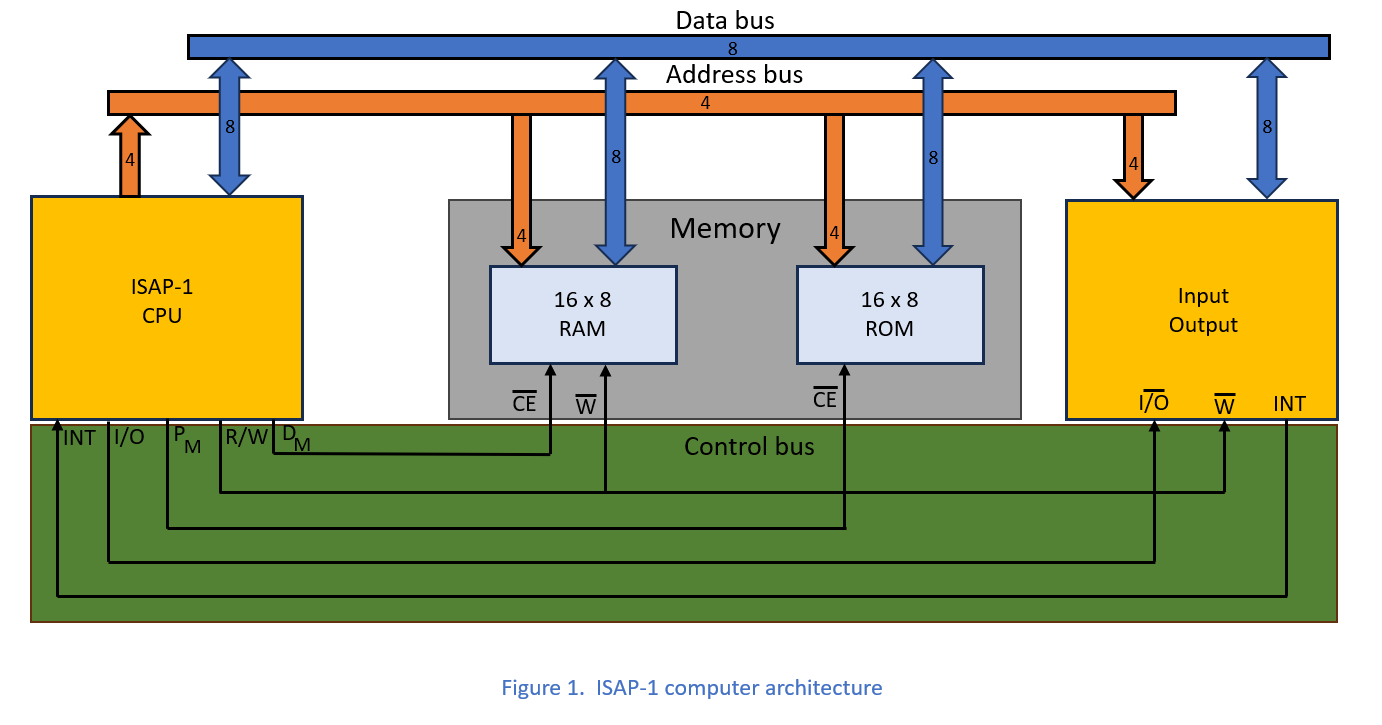
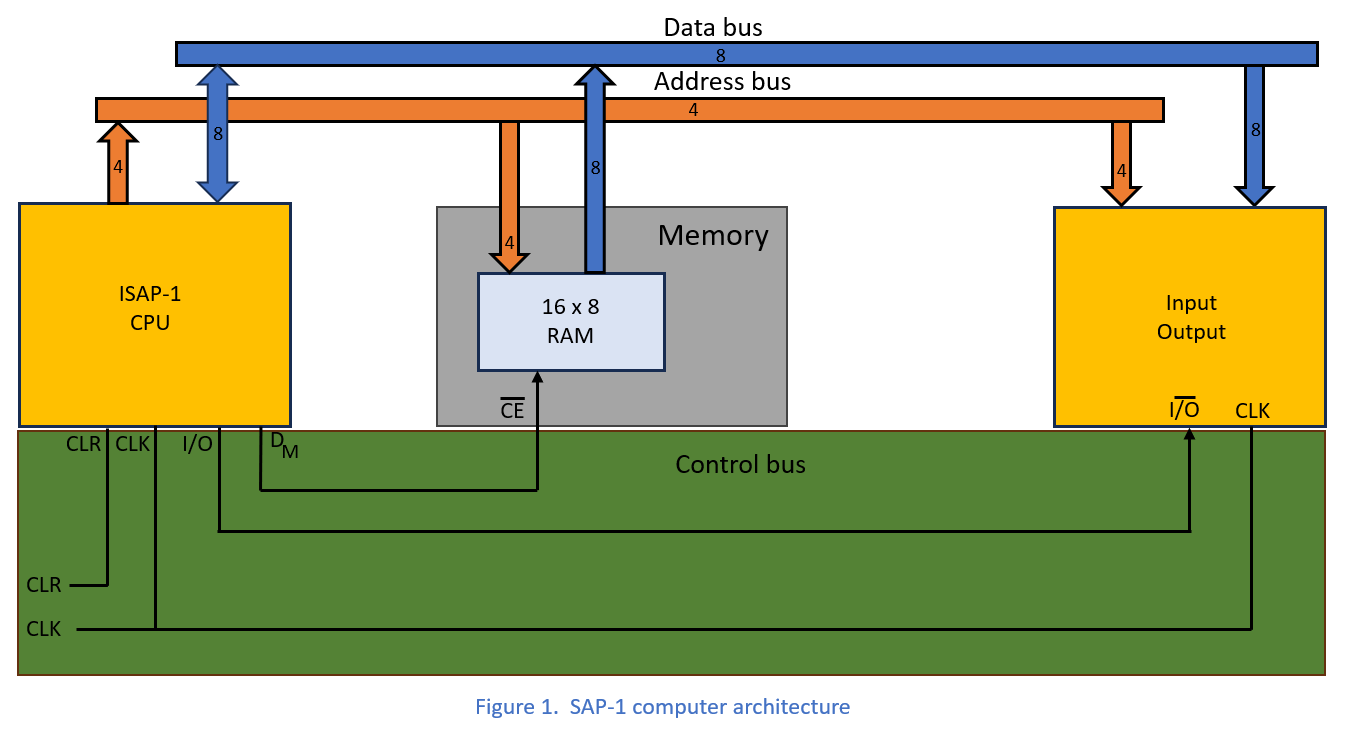
modified:   Pictures/Figure1.png modified:   Pictures/Figure2.png modified:   README.md

Changed region(s): [[0.0, 0.0, 0.9926, 0.971], [0.8375, 0.3945, 0.8996, 0.4855], [0.0931, 0.3641, 0.1551, 0.4552]]

diff --git a/README.md b/README.md
@@ -13,17 +13,16 @@ https://github.com/LincaMarius
 
 The goal of this project is to create a more efficient version of the SAP (Simple As Possible) computer, but with minimal changes so that the instruction format remains the same.
 
-This project is a continuation of other projects made by me:
-https://github.com/LincaMarius/ISAP-Computer \
-https://github.com/LincaMarius/ISAP-1_Computer_Instruction_Set
+This project is part of a project made by me:
+https://github.com/LincaMarius/ISAP-Computer
 
-where we optimized the SAP-1 calculator at the block diagram level and at the Instruction Set level.
+where we optimized the SAP-1 computer
 
-The final structure of the ISAP-1 computer is:
+The Structure of the SAP-1 computer is:
 
 ![ Figure 1 ](/Pictures/Figure1.png)
 
-The block diagram of the Central Processing Unit of the ISAP-1 computer is:
+The block diagram of the Central Processing Unit of the SAP-1 computer is:
 
 ![ Figure 2 ](/Pictures/Figure2.png)
 
